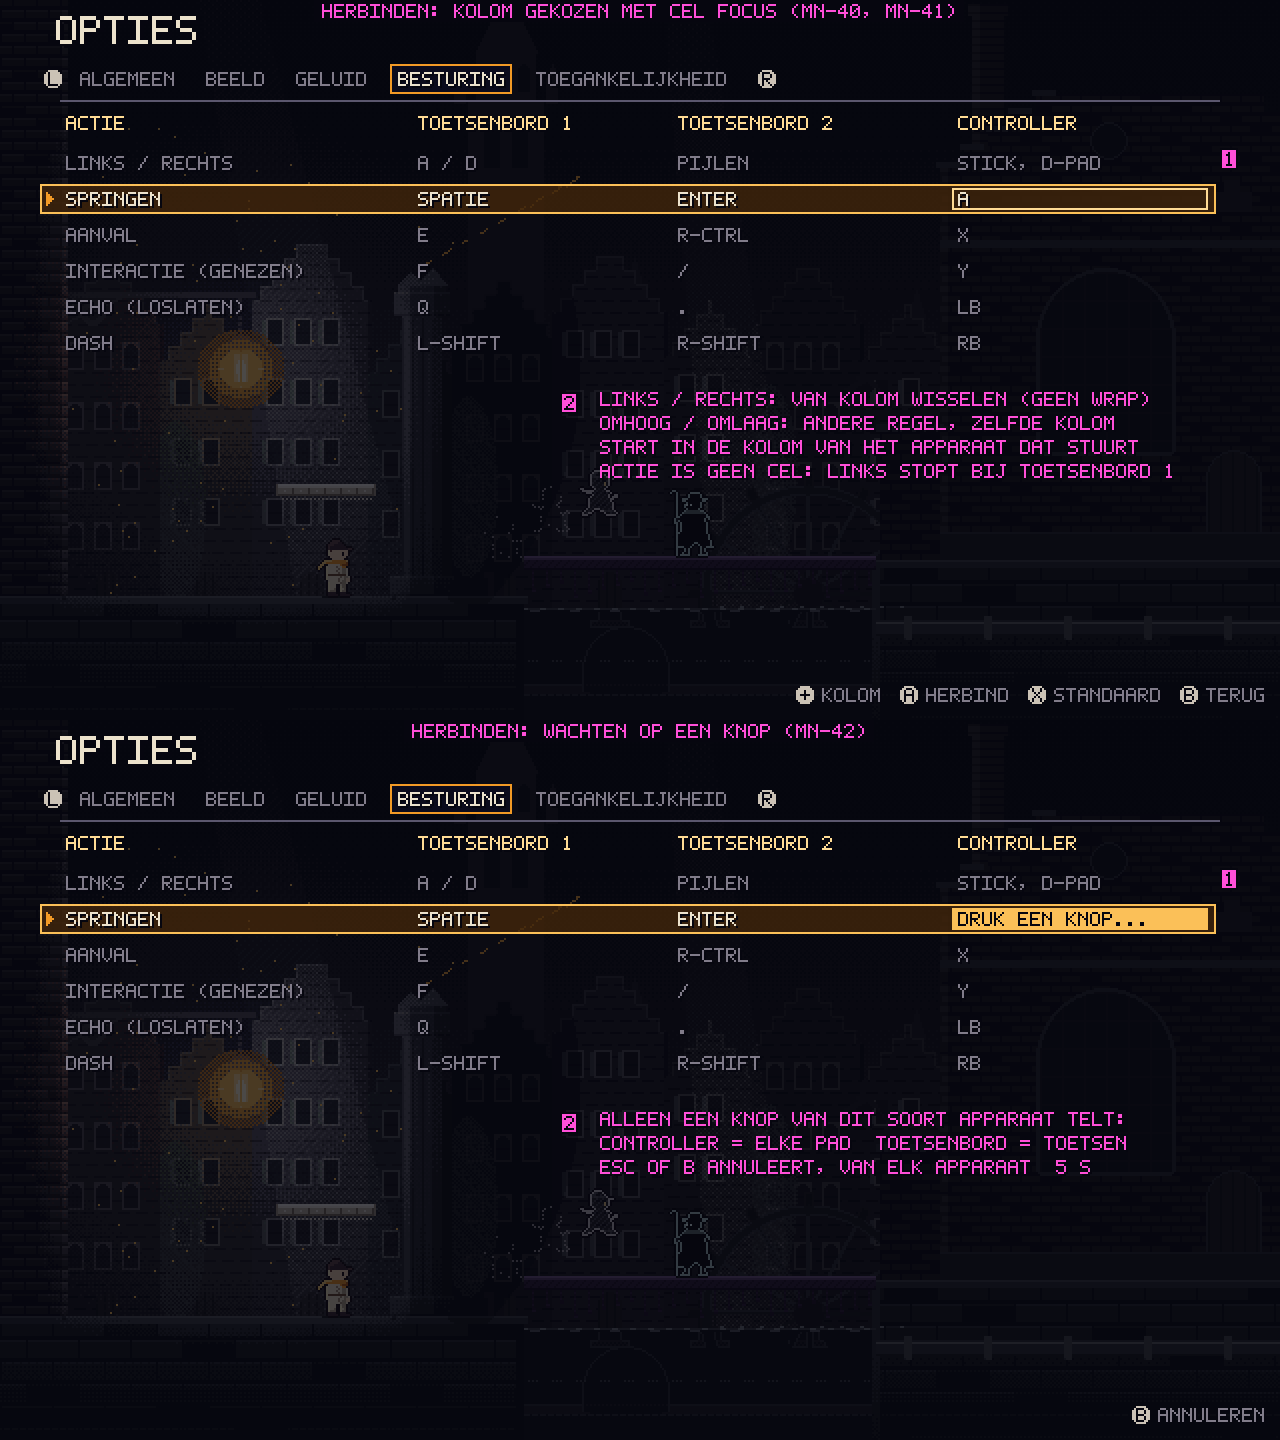
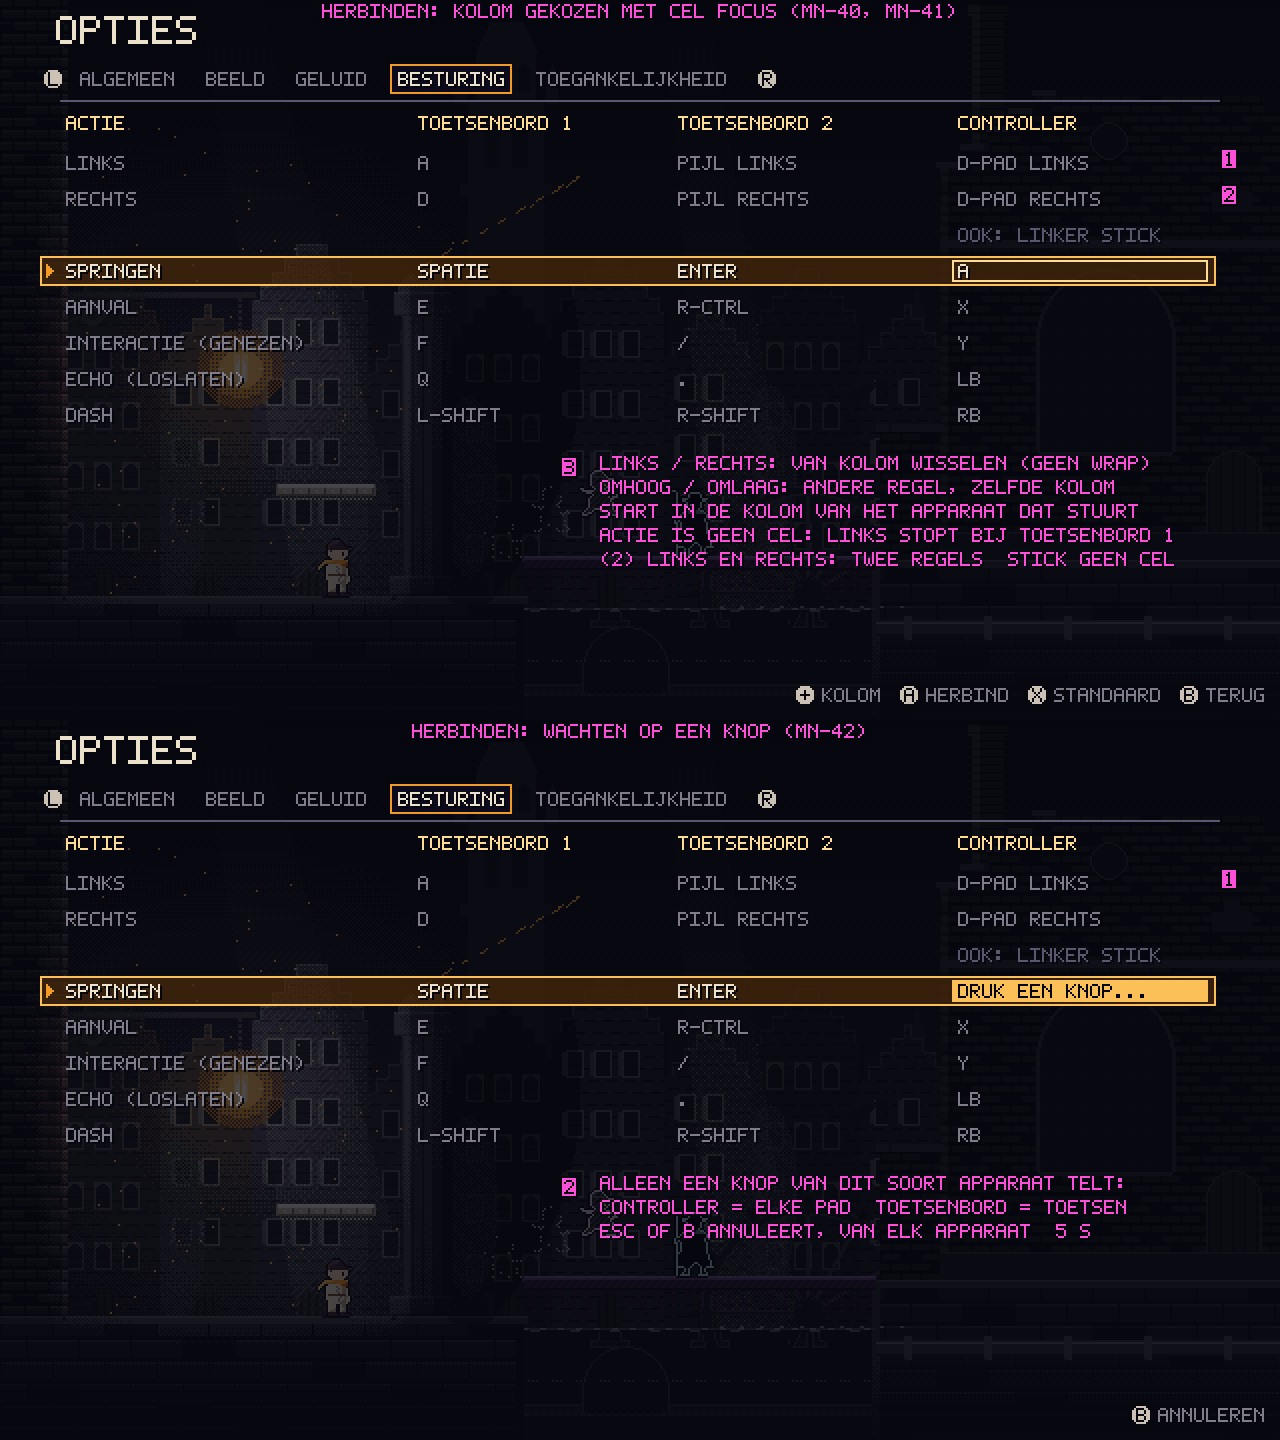
[ux-designer] herstel na Lead-review: Links/Rechts gesplitst, Herstel alles, MN-44, logboektab (#87)
Claude-Session: https://claude.ai/code/session_01L3XQzf3ZGM79FU3nHy6CVa

diff --git a/docs/ux/wireframes/bron/genereer_wireframes.py b/docs/ux/wireframes/bron/genereer_wireframes.py
@@ -845,7 +845,7 @@ def blad_logboek():
         img = laad("r5_kleur_640x360.png")
         img = verduister(img)
         txt(img, "LOGBOEK", 28, 8, C["tekst"], scale=2)
-        tabbalk(img, ["PROLOOG", "WIJK 1.1 DE KADEWIJK"], 1, y=38)
+        tabbalk(img, ["PROLOOG", "DE POLDERWIJK"], 1, y=38)
         txt(img, "3 VAN 7 GEVONDEN", 28, 58, C["tekst_d"])
         return img
 
@@ -859,7 +859,7 @@ def blad_logboek():
     txt(a, "LOGBLADZIJDE 4", 238, 78, C["gloed"][6])
     txt(a, "DE SLUISWACHTER SCHREEF HET PEIL OP DE MUUR,", 238, 88, C["tekst"])
     txt(a, "ELKE AVOND EEN STREEP HOGER.", 238, 97, C["tekst"])
-    noot(a, 1, 250, 36)
+    noot(a, 1, 200, 36)
     noot(a, 2, 132, 56)
     noot(a, 3, 190, 92)
     noot(a, 4, 190, 108)
@@ -928,7 +928,10 @@ def blad_credits():
 def blad_herbinden_kolom():
     """Herbinden: de kolom kiezen (MN-40-MN-44). Paneel 1: cel gekozen. Paneel 2: wachten op een knop."""
     kol = [20, 196, 326, 466]
-    rijen = [("LINKS / RECHTS", "A / D", "PIJLEN", "STICK, D-PAD"),
+    # MN-43: Links en Rechts zijn twee regels; de stick is geen cel (gedimde regel eronder).
+    rijen = [("LINKS", "A", "PIJL LINKS", "D-PAD LINKS"),
+             ("RECHTS", "D", "PIJL RECHTS", "D-PAD RECHTS"),
+             ("~", "", "", "OOK: LINKER STICK"),
              ("SPRINGEN", "SPATIE", "ENTER", "A"),
              ("AANVAL", "E", "R-CTRL", "X"),
              ("INTERACTIE (GENEZEN)", "F", "/", "Y"),
@@ -946,6 +949,9 @@ def blad_herbinden_kolom():
                 rect(img, 20, y, 588, 15, C["gloed"][0], 0.7)
                 frame(img, 20, y, 588, 15, C["gloed"][5])
                 lamp(img, 23, y + 3)
+            if r[0] == "~":
+                txt(img, r[3], kol[3] + 13, y + 4, C["kader_d"])
+                continue
             for j, (x, t) in enumerate(zip(kol, r)):
                 if i == rij and j == cel:
                     rechts = (kol[j + 1] - 7) if j + 1 < len(kol) else 604
@@ -958,22 +964,24 @@ def blad_herbinden_kolom():
         return img
 
     basis = verduister(laad("r5_grijs_640x360.png"))
-    a = tabel(basis.copy(), 1, 3)
+    a = tabel(basis.copy(), 3, 3)
     noot(a, 1, 610, 74)
-    maat(a, 300, 196, "LINKS / RECHTS: VAN KOLOM WISSELEN (GEEN WRAP)")
-    maat(a, 300, 208, "OMHOOG / OMLAAG: ANDERE REGEL, ZELFDE KOLOM")
-    maat(a, 300, 220, "START IN DE KOLOM VAN HET APPARAAT DAT STUURT")
-    maat(a, 300, 232, "ACTIE IS GEEN CEL: LINKS STOPT BIJ TOETSENBORD 1")
-    noot(a, 2, 280, 196)
+    noot(a, 2, 610, 92)
+    maat(a, 300, 228, "LINKS / RECHTS: VAN KOLOM WISSELEN (GEEN WRAP)")
+    maat(a, 300, 240, "OMHOOG / OMLAAG: ANDERE REGEL, ZELFDE KOLOM")
+    maat(a, 300, 252, "START IN DE KOLOM VAN HET APPARAAT DAT STUURT")
+    maat(a, 300, 264, "ACTIE IS GEEN CEL: LINKS STOPT BIJ TOETSENBORD 1")
+    maat(a, 300, 276, "(2) LINKS EN RECHTS: TWEE REGELS; STICK GEEN CEL")
+    noot(a, 3, 280, 228)
     hintbalk(a, [("+", "KOLOM"), ("A", "HERBIND"), ("X", "STANDAARD"), ("B", "TERUG")])
     label(a, "HERBINDEN: KOLOM GEKOZEN MET CEL_FOCUS (MN-40, MN-41)")
 
-    b = tabel(basis.copy(), 1, 3, wacht=True)
+    b = tabel(basis.copy(), 3, 3, wacht=True)
     noot(b, 1, 610, 74)
-    maat(b, 300, 196, "ALLEEN EEN KNOP VAN DIT SOORT APPARAAT TELT:")
-    maat(b, 300, 208, "CONTROLLER = ELKE PAD; TOETSENBORD = TOETSEN")
-    maat(b, 300, 220, "ESC OF B ANNULEERT, VAN ELK APPARAAT; 5 S")
-    noot(b, 2, 280, 196)
+    maat(b, 300, 228, "ALLEEN EEN KNOP VAN DIT SOORT APPARAAT TELT:")
+    maat(b, 300, 240, "CONTROLLER = ELKE PAD; TOETSENBORD = TOETSEN")
+    maat(b, 300, 252, "ESC OF B ANNULEERT, VAN ELK APPARAAT; 5 S")
+    noot(b, 2, 280, 228)
     hintbalk(b, [("B", "ANNULEREN")])
     label(b, "HERBINDEN: WACHTEN OP EEN KNOP (MN-42)")
     opslaan(np.concatenate([a, b], 0), "menu_herbinden_kolom_x2_placeholder.png", 2)
@@ -1070,7 +1078,8 @@ def blad_opties_besturing():
     kol = [44, 200, 330, 470]
     for x, t in zip(kol, ["ACTIE", "TOETSENBORD 1", "TOETSENBORD 2", "CONTROLLER"]):
         txt(img, t, x, 62, C["noot"])
-    rijen = [("LINKS / RECHTS", "A / D", "PIJLEN", "STICK, D-PAD"),
+    rijen = [("LINKS", "A", "PIJL LINKS", "D-PAD L (+ STICK)"),
+             ("RECHTS", "D", "PIJL RECHTS", "D-PAD R (+ STICK)"),
              ("SPRINGEN", "SPATIE", "ENTER", "A"),
              ("AANVAL", "E", "R-CTRL", "X"),
              ("INTERACTIE (GENEZEN)", "F", "/", "Y"),
@@ -1081,18 +1090,18 @@ def blad_opties_besturing():
              ("STOPPEN (VASTHOUDEN)", "-", "BACKSPACE", "VIEW")]
     for i, r in enumerate(rijen):
         y = 80 + i * 18
-        if i == 4:
+        if i == 5:
             rect(img, 36, y - 4, 568, 15, C["plaat"], 0.95)
             frame(img, 36, y - 4, 568, 15, C["amber"])
         for j, (x, t) in enumerate(zip(kol, r)):
-            if i == 4 and j == 3:
+            if i == 5 and j == 3:
                 rect(img, x - 3, y - 3, 60, 13, C["amber"])
                 txt(img, "DRUK...", x, y, C["zwart"], schaduw=False)
             else:
-                txt(img, t, x, y, C["tekst"] if i == 4 else C["tekst_d"])
-    txt(img, "BEZET DOOR DASH: WISSELEN?", 300, 252, C["gloed"][6])
+                txt(img, t, x, y, C["tekst"] if i == 5 else C["tekst_d"])
+    txt(img, "BEZET DOOR DASH: WISSELEN?", 300, 266, C["gloed"][6])
     noot(img, 1, 610, 150)
-    noot(img, 2, 460, 250)
+    noot(img, 2, 460, 264)
     hintbalk(img, [("A", "HERBIND"), ("X", "STANDAARD"), ("B", "TERUG")])
     label(img, "OPTIES: BESTURING (HERBINDEN PER APPARAAT)")
     opslaan(img, "menu_opties_besturing_x2_placeholder.png", 2)

diff --git a/docs/ux/hud-menus.md b/docs/ux/hud-menus.md
@@ -261,8 +261,8 @@ Tabbladen met **LB/RB** (toetsenbord Q/E of Tab); elke regel heeft onderaan een 
 | **MN-40** | **Links/rechts wisselt van kolom** binnen de gekozen regel (d-pad, stick, pijltjes of A/D); **omhoog/omlaag** gaat naar een andere regel en **houdt de kolom**. Geen wrap: links stopt bij *Toetsenbord 1*, rechts bij *Controller*. De kolom *Actie* is geen cel. Waarom zo: het is een raster, en links/rechts doet in Opties al "de waarde van deze regel"; hier is de waarde de cel. De knophint toont het d-pad-kruis (`dpad_horizontaal`, stijlgids §13) met *Kolom* (`MENU_COLUMN`). |
 | **MN-41** | **Startkolom:** bij het openen van het tabblad staat de cursor in de kolom van het **apparaat dat het menu stuurt** (pad → *Controller*; toetsenbord van P1 → *Toetsenbord 1*, van P2 → *Toetsenbord 2*), op de eerste regel. Daarna onthoudt het tabblad regel en kolom (§4). De muis: een klik op een cel kiest die cel en is meteen A. |
 | **MN-42** | **Wachten op een knop** (`herbind_wacht`, `MENU_PRESS_KEY`, 5 s): alleen een knop van **het soort apparaat van de kolom** telt. *Toetsenbord 1/2*: een toets; *Controller*: een knop van **elke** pad (één profiel voor elke pad). Een knop van het andere soort doet niets. **Esc of B annuleert altijd**, van elk apparaat, en wordt dus nooit zelf gebonden (de vaste uitzondering hierboven). Wie met een pad een toetsenbordkolom herbindt, kan dus zonder toetsenbord nog terug. |
-| **MN-43** | **Cel met meer knoppen**: A vervangt de **eerste knop** van de cel, de rest blijft. De stick als as telt daarbij niet mee: bij *Stick, D-pad* vervang je het d-pad en blijft de stick (een as is in de slice niet herbindbaar; links/rechts kan dus altijd met de stick). **X = standaard** zet alleen de gekozen cel terug; *Herstel alles* onderaan het tabblad alle cellen van alle kolommen (met bevestiging zoals MN-23: *Terug* bovenaan). |
-| **MN-44** | **Regels zonder kolommen** in hetzelfde tabblad (*Stickdrempel*, *Herstel alles*): daar is links/rechts weer de waarde (schuif); de cel-focus is weg. Terug in het raster komt de onthouden kolom terug. |
+| **MN-43** | **Eén regel = één actie met één richting = één knop per cel.** *Links / rechts* (`input.md` §2a: LEFT en RIGHT zijn twee bits) staat daarom als **twee regels**, *Links* en *Rechts*, elk met een eigen cel per kolom. Zo bindt A altijd precies wat er in de regel staat, en kan rechts nooit zonder knop raken. Waarom splitsen en niet twee keer wachten (*Druk op links*, dan *Druk op rechts*): één regel en één wachtstand is het patroon van elke andere actie, er is geen tweede time-out en geen half-gebonden toestand als je na de eerste knop annuleert. De **stick als as** is geen cel en niet herbindbaar (de stick stuurt altijd links/rechts op de controller); de cel *Controller* toont het d-pad, de stick staat in een gedimde regel eronder (*Ook: linker stick*). **X = standaard** zet alleen de gekozen cel terug. **Herstel alles** (`MENU_RESET_ALL`, onderaan het tabblad) zet alle cellen van alle kolommen terug, na een bevestiging **volgens MN-23**: titel *Alle knoppen terugzetten?* (`MENU_CONFIRM_RESET_ALL`), tekst `MENU_CONFIRM_RESET_ALL_BODY`, *Terug* bovenaan en standaard, *Herstellen* (`MENU_RESET`) alleen met omlaag + A, eerst loslaten en 0,25 s echte tijd, geen wrap. **Besloten door de LGD** (Lead-review PR #144). |
+| **MN-44** | **Regels zonder kolommen** in hetzelfde tabblad: de cel-focus is daar weg. Alleen bij *Stickdrempel* schuift links/rechts de waarde. Bij *Herstel alles* doet links/rechts niets en opent A de bevestiging (MN-43). Terug in het raster komt de onthouden kolom terug. |
 
 ### 4.6 Meldingen en opslaan
 
@@ -323,9 +323,9 @@ Antwoord op ui-stijlgids §10 punt 12. Uit de pauze (*Logboek*); het spel blijft
 
 | ID | Regel |
 |---|---|
-| **MN-30** | **Indeling (normaal):** verduistering 72 %, titel *Logboek* (`MENU_LOGBOOK`, `Titel`) op (28, 8); tabbalk zoals Opties (LB/RB, y 34) met **één tab per gebied waar je geweest bent** (de proloog telt als gebied); geen tabs voor gebieden die je nog niet kent, zodat er niets verklapt wordt. Onder de tablijn `Gedimd` op (28, 56): *3 van 7 gevonden* (`MENU_LOG_COUNT`). Lijst links: Buttons van 160 breed op x 28, y 74 + 16 × i. Rechts het **logkader van de HUD** (`kader_9slice`, 360 × 32, binnen 348) op (232, 74), met kop *Logbladzijde n* in gloed 6 en de 2 regels: precies wat de speler zag bij het oppakken (§3.7). |
+| **MN-30** | **Indeling (normaal):** verduistering 72 %, titel *Logboek* (`MENU_LOGBOOK`, `Titel`) op (28, 8); tabbalk zoals Opties (LB/RB, y 34) met **één tab per gebied waar je geweest bent**, met de **gebiedsnaam** (*De polderwijk*, `wereld.md` §1; geen wijknaam), en de proloog als eigen tab; geen tabs voor gebieden die je nog niet kent, zodat er niets verklapt wordt. Onder de tablijn `Gedimd` op (28, 56): *3 van 7 gevonden* (`MENU_LOG_COUNT`). Lijst links: Buttons van 160 breed op x 28, y 74 + 16 × i. Rechts het **logkader van de HUD** (`kader_9slice`, 360 × 32, binnen 348) op (232, 74), met kop *Logbladzijde n* in gloed 6 en de 2 regels: precies wat de speler zag bij het oppakken (§3.7). |
 | **MN-31** | **Een regel per bladzijde van dat gebied**, op volgorde van n (hetzelfde nummer als `HUD_LOG_KOP`). Gevonden: *Logbladzijde n*. Nog niet gevonden: **"– – –"** in de staat *uit* (gevel wit 3, geen lamp); de cursor **slaat die over**. Zo zie je hoeveel er nog ligt, maar niet waar (MN-15). ± 7 per gebied (WS-08), dus de lijst past zonder scrollen (7 × 16 = 112 px; groot 140). |
-| **MN-32** | **Bediening:** omhoog/omlaag kiest een bladzijde; het kader rechts **volgt de cursor meteen** (geen A nodig; A doet niets). LB/RB (Q/E, Tab) wisselt van gebied. **B = terug naar de pauze.** In co-op stuurt wie de pauze opende (MN-11). Openen: het tabblad van het gebied waar je nu bent, de cursor op de laatst gevonden bladzijde daar. Geen gevonden bladzijde in dit gebied: het kader toont *Nog geen bladzijden in dit gebied.* (`MENU_LOG_NONE`) en er is geen cursor in de lijst. |
+| **MN-32** | **Bediening:** omhoog/omlaag kiest een bladzijde; het kader rechts **volgt de cursor meteen** (geen A nodig; A doet niets). LB/RB (Q/E, Tab) wisselt van gebied. **B = terug naar de pauze.** In co-op stuurt wie de pauze opende (MN-11). Openen: het tabblad van het gebied waar je nu bent, de cursor op de laatst gevonden bladzijde daar. Geen gevonden bladzijde in dit gebied: het kader toont *Nog geen bladzijden in dit gebied.* (`MENU_LOG_NONE`) en er is geen cursor in de lijst. MN-32 is **besloten door de LGD** (Lead-review PR #144). |
 | **MN-33** | **Tekstgrootte groot:** Buttons 200 × 20 (y 74 + 20 × i), en het kader gaat **onder** de lijst: het grote logkader (540 × 48, §3.7) op (50, 222). Naast de lijst past het niet. |
 | **MN-34** | Geen "nieuw"-merkje en geen sortering: ± 30 bladzijden, en de HUD toonde elke bladzijde al 6 s (§3.7). Na T11 bekijken of spelers bladzijden terugzoeken (§7 punt 9). |
 
@@ -334,7 +334,7 @@ Antwoord op ui-stijlgids §10 punt 12. Uit de pauze (*Logboek*); het spel blijft
 | ID | Regel |
 |---|---|
 | **MN-35** | **Indeling:** verduistering 72 % over het titelbeeld; één **kolom van 320 px, gecentreerd** (x 160–480), tekst gecentreerd. Blokken van een kop (de rol of het onderdeel, gloed 6) met de namen eronder (gevel wit 7), **12 px per regel, 14 px tussen blokken** (groot 16 en 18). Een `RichTextLabel` in een `ScrollContainer` zonder zichtbare scrollbalk; het Theme dekt de rest (stijlgids §14). |
-| **MN-36** | **Bediening:** de kolom schuift vanzelf **20 px/s** omhoog (± 1,7 regel per seconde, rustig leesbaar). **Omlaag vasthouden = 4× zo snel**, **omhoog vasthouden = terugschuiven**; muiswiel scrolt. Aan het eind blijft de laatste regel staan. **B/Esc = terug** naar het hoofdmenu, altijd. Knophints: d-pad verticaal met *Sneller* (`MENU_CREDITS_FASTER`), B *Terug*. Geen pauzeknop: omhoog vasthouden of stilhouden is genoeg. |
+| **MN-36** | **Bediening:** de kolom schuift vanzelf **20 px/s** omhoog (± 1,7 regel per seconde, rustig leesbaar). **Omlaag vasthouden = 4× zo snel**, **omhoog vasthouden = terugschuiven**; muiswiel scrolt. Aan het eind blijft de laatste regel staan. **B/Esc = terug** naar het hoofdmenu, altijd. Knophints: d-pad verticaal met *Sneller* (`MENU_CREDITS_FASTER`), B *Terug*. Geen pauzeknop: omhoog vasthouden of terugschuiven is genoeg. **Besloten door de LGD** (Lead-review PR #144); na T11 bekeken (§7 punt 20). |
 | **MN-37** | **Inhoud** (niet van de UX Designer): de namen en rollen, *Gemaakt met Godot Engine* en de licentieteksten die verplicht zijn (`docs/licenties.md`). Welke tekst er moet staan, beslissen de Producer en de Business/Legal Advisor (§7 punt 18); namen worden niet vertaald, de koppen wel (`CREDITS_*`). |
 
 ## 5. Toegankelijkheid
@@ -361,7 +361,7 @@ Wireframe: `menu_opties_toegankelijkheid_x2_placeholder.png`. Elke optie staat i
 ## 6. Taal en tekst
 
 - **Sleutels** (`ontwerp.md` §8a): prefix per scherm, `HUD_`, `MENU_`, `COMMON_`, plus `OPT_` voor opties en `A11Y_` voor de uitleg bij toegankelijkheid. Nieuwe sleutels uit deze spec (voorstel; de Gameplay Programmer zet ze in `strings.csv` bij de bouw): `HUD_LAMPGLAS`, `HUD_LOG_KOP`, `HUD_BOSS_GEMAALMEESTER`, `HUD_P2_JOINED`, `HUD_P2_STOP_HOLD`, `HUD_P2_LEAVING`, `HUD_PAD_JOIN_HINT`, `HUD_PAD_LOST`, `MENU_PRESS_ANY`, `MENU_LANGUAGE_HINT`, `MENU_CONTINUE`, `MENU_NEW_GAME`, `MENU_OPTIONS`, `MENU_CREDITS`, `MENU_QUIT`, `MENU_RESUME`, `MENU_LOGBOOK`, `MENU_P2_LEAVE`, `MENU_TO_TITLE`, `MENU_SAVED_AT_PUMP`, `MENU_CONFIRM_OVERWRITE`, `MENU_PRESS_KEY`, `MENU_KEY_TAKEN`, `MENU_PAUSED_BY`, `HUD_PAD_NAME`.
-- **Nieuw in `strings.csv`** (v0.3): `MENU_CONTINUE_DETAILS` (§4.2 regel 2), `MENU_SLOT_LAMPGLAS` (pas na schema v2), `MENU_LOGBOOK`, `MENU_LOG_COUNT`, `MENU_LOG_NONE` (§4.8), `MENU_CREDITS`, `MENU_CREDITS_FASTER` (§4.9), `MENU_COLUMN` (§4.5). `MENU_SLOT_DETAILS` heeft nu *·* als scheiding, zoals de regel onder *Doorgaan*.
+- **Nieuw in `strings.csv`** (v0.3): `MENU_CONTINUE_DETAILS` (§4.2 regel 2), `MENU_SLOT_LAMPGLAS` (pas na schema v2), `MENU_LOGBOOK`, `MENU_LOG_COUNT`, `MENU_LOG_NONE` (§4.8), `MENU_CREDITS`, `MENU_CREDITS_FASTER` (§4.9), `MENU_COLUMN`, `MENU_RESET_ALL`, `MENU_CONFIRM_RESET_ALL`, `MENU_CONFIRM_RESET_ALL_BODY`, `MENU_RESET`, `MENU_ALSO_STICK` (§4.5, MN-43). `MENU_SLOT_DETAILS` heeft nu *·* als scheiding, zoals de regel onder *Doorgaan*.
 - **Al in `strings.csv`** (EN en NL, met context; v0.2): de teksten van het slot-menu en de opslagmeldingen (§4.6, §4.7): `MENU_NEW_GAME`, `MENU_SLOTS`, `MENU_SLOT_NAME`, `MENU_SLOT_DETAILS`, `MENU_SLOT_TIME_MIN`, `MENU_SLOT_TIME_HM`, `MENU_SLOT_EMPTY`, `MENU_SLOT_RESTORED`, `MENU_SLOT_BROKEN`, `MENU_SLOT_NEWER`, `MENU_SLOT_LOAD`, `MENU_SLOT_NEW_HERE`, `MENU_CONFIRM_OVERWRITE`, `MENU_CONFIRM_OVERWRITE_BODY`, `MENU_CONFIRM_SET_ASIDE_BODY`, `MENU_OVERWRITE`, `COMMON_BACK`, `MENU_SLOT_SAVE_FAILED`, `HUD_SAVE_RESTORED`, `HUD_SAVE_RESTORED_SUB`, `HUD_SAVE_FAILED`, `HUD_SAVE_FAILED_SUB`. De Narrative Designer mag de toon nog bijschaven; de sleutels blijven.
 - **`HUD_PAD_JOIN_HINT` op twee regels** (ui-stijlgids §7 bevinding 1, §10 punt 2; overgenomen): op één regel is het NL 195 px en past het niet in een melding (184 px binnen). Nu: regel 1 *Controller 2* in cyaan (`HUD_PAD_NAME`, EN/NL "Controller %d"), regel 2 *Druk op Start om mee te doen* (`HUD_PAD_JOIN_HINT`, EN "Press Start to join"). Waarom twee regels en niet korter: korter ("Start = meedoen") is minder duidelijk voor een tweede speler die het spel niet kent, en dat is precies wie deze melding leest (10 s om mee te doen, `coop.md` §1); de kop *Controller 2* zegt meteen welk apparaat bedoeld is, en het patroon kop + regel is dat van *P2 doet mee* (CO-04). `HUD_PAD_LOST` gebruikt dezelfde kop. Beide sleutels staan nog niet in `strings.csv`; de Gameplay Programmer zet ze erin bij de bouw (§7 punt 2), *Start* wordt dan de knop-glyph van het apparaat (§4.5).
 - **Lengte:** elk tekstvak is ontworpen voor de Engelse tekst **+ 35 %** (NL is gemiddeld langer, en sommige woorden veel: *Toegankelijkheid* tegenover *Accessibility*). Een tekst die niet past, wordt korter geschreven, nooit kleiner gezet.
@@ -391,13 +391,14 @@ Wireframe: `menu_opties_toegankelijkheid_x2_placeholder.png`. Elke optie staat i
 | 16 | **Nu op te pakken door de UI Artist** (antwoord op ui-stijlgids §10 punten 11–13 en 18): **(a)** mock-up van *Spelbestanden* en de bevestiging, normaal en groot, volgens §4.7a; enige nieuwe vorm is het slot-kader (400 × 36 / 584 × 50) in de staten normaal en focus, uit bestaande 9-slices; **(b)** mock-ups van het **Logboek** (§4.8) en de **Credits** (§4.9), normaal en groot; **(c)** herbinden: `cel_focus` klopt met MN-40–MN-44, de hint *Kolom* gebruikt `dpad_horizontaal`; **(d)** punt 18 is overgenomen in §4.2 (twee regels, ≤ 165 px). Daarna de punten 11–13 en 18 in de stijlgids sluiten. | UI Artist (review AD) | Volgende run van de UI Artist |
 | 17 | **Wijknamen ≤ 165 px** in Polderletter normaal, in EN én NL (§4.2): bij het schrijven van de namen meten met `docs/art/ui/bron/polderletter.py` (`text_width`). | Narrative Designer, met de World & Level Designer | Bij de wijknamen in `strings.csv` |
 | 18 | **Inhoud van de credits** (MN-37): welke namen en rollen, en welke licentieteksten verplicht zijn (Godot, MIT; eigen font). | Producer, Business/Legal Advisor | Vóór de eerste publieke build |
-| 19 | Logboek, credits en de kolomkeuze bij herbinden bouwen (§4.5, §4.8, §4.9); voor het logboek per bladzijde het gebied en n bewaren (LM-12) | Gameplay Programmer | Met T8a |
+| 19 | Logboek, credits en de kolomkeuze bij herbinden bouwen (§4.5, §4.8, §4.9; *Links* en *Rechts* als twee regels, MN-43); voor het logboek per bladzijde het gebied en n bewaren (LM-12) | Gameplay Programmer | Met T8a |
+| 20 | Na T11: lezen spelers de licentieteksten in de credits bij 20 px/s, of willen ze toch een pauze (MN-36)? | UX Designer | Na T11 |
 
 ## 8. Wijzigingen
 
 | Versie | Datum | Wat |
 |---|---|---|
-| 0.3 | 2026-11-10 | ui-stijlgids §10 punten 11–13 en 18 (#87): indeling *Spelbestand kiezen* voor de art (§4.7a, met maten normaal en groot, gemeten in Polderletter); Logboek (§4.8, MN-30–MN-34) en Credits (§4.9, MN-35–MN-37); herbinden: de kolom kiezen (§4.5, MN-40–MN-44); regel onder *Doorgaan* op twee regels met de grens ≤ 165 px (§4.2). Nieuwe teksten in `strings.csv` (§6). Wireframes: nieuw `menu_logboek`, `menu_credits`, `menu_herbinden_kolom`; `menu_spelbestanden` en `menu_hoofdmenu` op de plaatsing van stijlgids §12.4; schermflow bijgewerkt. §7 punten 16–19. |
+| 0.3 | 2026-11-10 | ui-stijlgids §10 punten 11–13 en 18 (#87): indeling *Spelbestand kiezen* voor de art (§4.7a, met maten normaal en groot, gemeten in Polderletter); Logboek (§4.8, MN-30–MN-34) en Credits (§4.9, MN-35–MN-37); herbinden: de kolom kiezen (§4.5, MN-40–MN-44); regel onder *Doorgaan* op twee regels met de grens ≤ 165 px (§4.2). Nieuwe teksten in `strings.csv` (§6). Wireframes: nieuw `menu_logboek`, `menu_credits`, `menu_herbinden_kolom`; `menu_spelbestanden` en `menu_hoofdmenu` op de plaatsing van stijlgids §12.4; schermflow bijgewerkt. §7 punten 16–20. Na de Lead-review (PR #144): *Links / rechts* gesplitst in *Links* en *Rechts* (MN-43); bevestiging bij *Herstel alles* volgens MN-23 met eigen sleutels; MN-44 (alleen *Stickdrempel* schuift); MN-32, MN-36 en MN-43 besloten door de LGD; logboektab = gebiedsnaam. |
 | 0.2 | 2026-11-10 | ui-stijlgids §10 punten 1–3 (#87): plaat 62 → **66 %** met nieuwe metingen (§2.3); `HUD_PAD_JOIN_HINT` op twee regels met kop `HUD_PAD_NAME` (§6); melding max. 196 px (HUD-M5) en omhoog boven logkader én boss-balk (HUD-M6, §3.7). `ontwerp.md` §12 (UX): slot-menu *Spelbestanden* (§4.7, MN-20–MN-25) met de standen uit `ontwerp.md` §7 en een dwingende bevestiging bij overschrijven; hoofdmenu *Spelbestanden* (§4.2); meldingen opslaan mislukt en hersteld (§4.6); teksten in `strings.csv`; W9; open punten 12–15 (MN-23 en MN-25 besloten door de LGD, Lead-review PR #139; `MENU_SLOT_RESTORED` op regel 1; `HUD_SAVE_RESTORED_SUB` zonder plek; 0,25 s echte tijd). Wireframes: plaat 66 %, melding boven het logkader, nieuw `menu_spelbestanden_x2_placeholder.png`, hoofdmenu en schermflow bijgewerkt. |
 | 0.1.2 | 2026-11-10 | Na de SM-review (PR #129): logkader in px (360×32, groot 540×48); feedback per verplicht boss-moment (GM-09); de finisher in de HUD (§3.8a); TG-01 met de twee gevallen x+1…x+11 en x+12…x+19; open punt NL-tekst meten. |
 | 0.1.1 | 2026-11-10 | Na de Lead-review (PR #129): TG-01 bij de lanceerhouding met de regel van de LGD (virtuele knop); keuzes LGD: boss-balk ja, tikken bij genezen, Loslaten en stoppen ja, spelsnelheid nee, hulpmodus na T11; MN-14 verwijst naar CO-09. |
